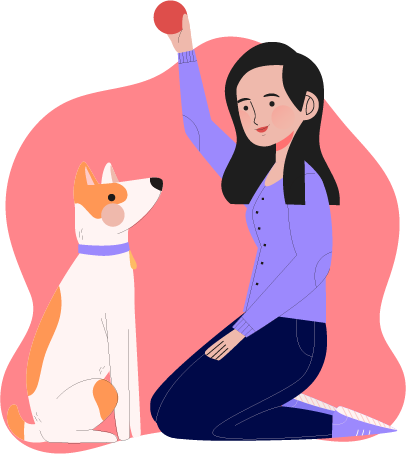
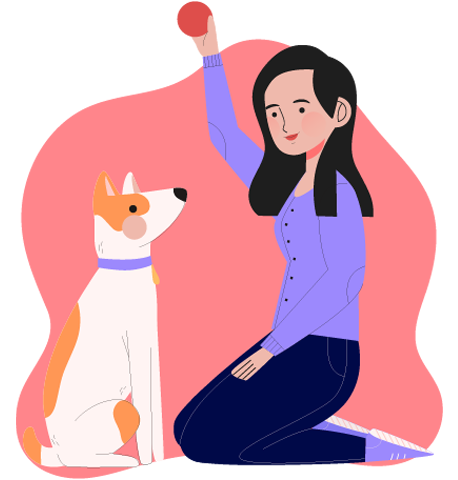
Cambié por flex el position de las ilustraciones + probé link de MP

diff --git a/pages/transita.html b/pages/transita.html
@@ -72,7 +72,7 @@
 
 		</header>
 
-		<main class="margin seccionAdoptar">
+		<main class="margin">
 
 			<h1><strong>TRANSITÁ</strong></h1>
 
@@ -115,41 +115,45 @@
 						<textarea class="form-control" id="exampleFormControlTextarea3" rows="3" placeholder="¿Qué otras mascotas tenés? ¿Cómo se llevan con otros animales?"></textarea>
 					</div>
 
-					<div class="mb-3">
-						<label class="form-label">¿Qué mascota vas a transitar?</label>								
-							<div class="form-check">
-								<input class="form-check-input" type="radio" name="flexRadioDefault" id="flexRadioDefault1">
-								<label class="form-check-label" for="flexRadioDefault1">Perros</label>
-							</div>
+					<div class="columnasTransitar">
 
-							<div class="form-check">
-								<input class="form-check-input" type="radio" name="flexRadioDefault" id="flexRadioDefault2" checked>
-								<label class="form-check-label" for="flexRadioDefault2">Gatos</label>
-							</div>
-					</div>
+						<div class="mb-3 columnaTransitar1">
+							<label class="form-label">¿Qué mascota vas a transitar?</label>								
+								<div class="form-check">
+									<input class="form-check-input" type="radio" name="flexRadioDefault" id="flexRadioDefault1">
+									<label class="form-check-label" for="flexRadioDefault1">Perros</label>
+								</div>
 
-					<div class="mb-3">
-						<label class="form-label">Preferís transitar:</label>
-							
-							<div class="form-check">
-								<input class="form-check-input" type="checkbox" value="bebes" id="flexCheckDefault1">
-								<label class="form-check-label" for="flexCheckDefault1">Bebés</label>
-							</div>
-							
-							<div class="form-check">
-								<input class="form-check-input" type="checkbox" value="cachorros" id="flexCheckDefault2" >
-								<label class="form-check-label" for="flexCheckDefault2">Cachorros</label>
-							</div>
+								<div class="form-check">
+									<input class="form-check-input" type="radio" name="flexRadioDefault" id="flexRadioDefault2" checked>
+									<label class="form-check-label" for="flexRadioDefault2">Gatos</label>
+								</div>
+						</div>
 
-							<div class="form-check">
-								<input class="form-check-input" type="checkbox" value="adultos" id="flexCheckDefault3">
-								<label class="form-check-label" for="flexCheckDefault3">Adultos</label>
-							</div>
-							
-							<div class="form-check">
-								<input class="form-check-input" type="checkbox" value="viejitos" id="flexCheckDefault4">
-								<label class="form-check-label" for="flexCheckDefault4">Viejitos</label>
-							</div>
+						<div class="mb-3">
+							<label class="form-label">Preferís transitar:</label>
+								
+								<div class="form-check">
+									<input class="form-check-input" type="checkbox" value="bebes" id="flexCheckDefault1">
+									<label class="form-check-label" for="flexCheckDefault1">Bebés</label>
+								</div>
+								
+								<div class="form-check">
+									<input class="form-check-input" type="checkbox" value="cachorros" id="flexCheckDefault2" >
+									<label class="form-check-label" for="flexCheckDefault2">Cachorros</label>
+								</div>
+
+								<div class="form-check">
+									<input class="form-check-input" type="checkbox" value="adultos" id="flexCheckDefault3">
+									<label class="form-check-label" for="flexCheckDefault3">Adultos</label>
+								</div>
+								
+								<div class="form-check">
+									<input class="form-check-input" type="checkbox" value="viejitos" id="flexCheckDefault4">
+									<label class="form-check-label" for="flexCheckDefault4">Viejitos</label>
+								</div>
+
+						</div>
 
 					</div>
 

diff --git a/css/estilos.css b/css/estilos.css
@@ -296,9 +296,6 @@ a {
 .cardAdopta {
   margin: 1%; }
 
-.seccionAdoptar {
-  position: relative; }
-
 /* -- ADOPTAR -- */
 /* -- SOBRE NOSOTROS -- */
 .textoNosotros {
@@ -729,22 +726,32 @@ a {
     padding-right: 2%; }
   .cardSecciones:hover {
     transform: scale(1.1); }
-  .formularioAdoptar {
-    width: 60%; }
-  .imagenAdoptar {
-    width: 35%;
-    position: absolute;
-    top: 15%;
-    right: 0; }
-  .imagenAdoptar img {
-    width: 100%; }
+  .seccionTransitar {
+    display: flex;
+    flex-direction: row; }
   .formularioTransitar {
     width: 60%; }
   .imagenTransitar {
-    width: 35%;
-    position: absolute;
-    top: 15%;
-    right: 0; }
+    margin-top: 30%;
+    margin-left: 10%; }
+  .imagenTransitar img {
+    width: 100%; }
+  .columnasTransitar {
+    display: flex;
+    flex-direction: row;
+    align-items: baseline; }
+  .columnaTransitar1 {
+    margin-right: 5%; }
+  .seccionAdoptar {
+    display: flex;
+    flex-direction: row; }
+  .formularioAdoptar {
+    width: 60%; }
+  .imagenAdoptar {
+    margin-top: 10%;
+    margin-left: 7%; }
+  .imagenAdoptar img {
+    width: 100%; }
   .imagen-refugios-principal img {
     width: 85%; }
   .cardRefugios {

diff --git a/scss/estilos.scss b/scss/estilos.scss
@@ -389,11 +389,6 @@ $principal: texto, foto;
 	margin: 1%;
 }
 
-.seccionAdoptar {
-	position: relative;
-}
-
-
 /* -- ADOPTAR -- */
 
 /* -- SOBRE NOSOTROS -- */
@@ -1127,30 +1122,49 @@ $principal: texto, foto;
 		transform: scale(1.1);
 	}
 
-	.formularioAdoptar {
-		width: 60%;
+	.seccionTransitar {
+		display: flex;
+		flex-direction: row;
 	}
-
-	.imagenAdoptar{
-		width: 35%;
-	    position: absolute;
-	    top: 15%;
-	    right: 0;
-	}
-
-	.imagenAdoptar img {
-		width: 100%;
-	}
-
 	.formularioTransitar {
 		width: 60%;
 	}
 
 	.imagenTransitar {
-		width: 35%;
-	    position: absolute;
-	    top: 15%;
-	    right: 0;
+		margin-top: 30%;
+		margin-left: 10%;
+	}
+
+	.imagenTransitar img {
+		width: 100%;
+	}
+
+	.columnasTransitar {
+		display: flex;
+		flex-direction: row;
+		align-items: baseline;
+	}
+
+	.columnaTransitar1 {
+		margin-right: 5%;
+	}
+
+	.seccionAdoptar {
+		display: flex;
+		flex-direction: row;
+	}
+
+	.formularioAdoptar {
+		width: 60%;
+	}
+
+	.imagenAdoptar{
+		margin-top: 10%;
+		margin-left: 7%;
+	}
+
+	.imagenAdoptar img {
+		width: 100%;
 	}
 
 	.imagen-refugios-principal img {

diff --git a/pages/refugios.html b/pages/refugios.html
@@ -155,7 +155,7 @@
 
 			<section class="botonDonar">
 				
-				<a href="#">DONÁ</a>
+				<a href="https://mpago.la/2q2mMoA" target="_blank">DONÁ</a>
 
 			</section>
 
